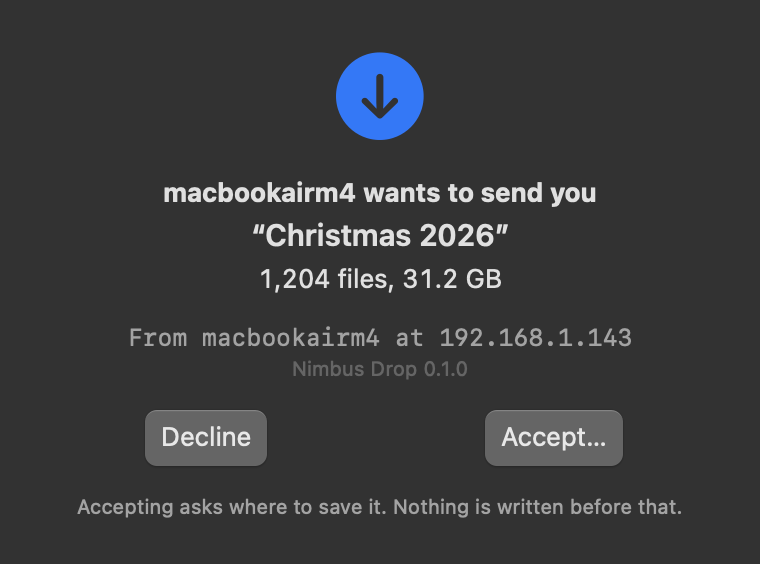
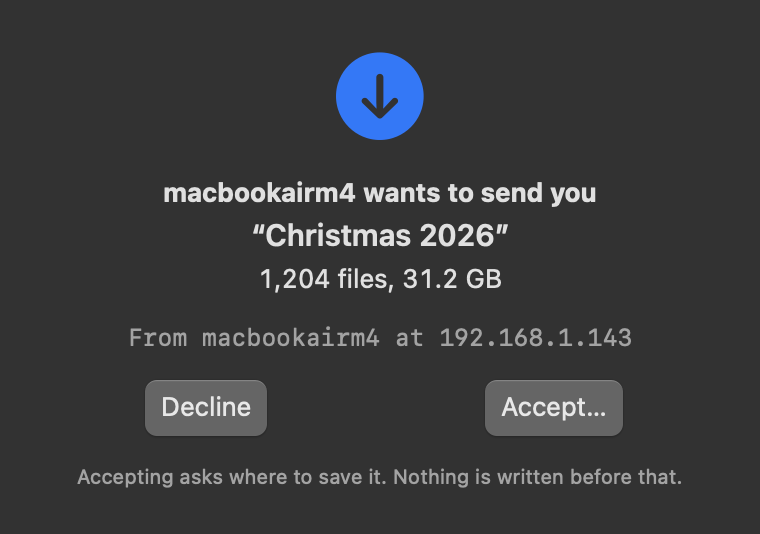
Each incoming drop asks on its own; a withdrawn offer no longer blocks the rest
- Offers are no longer queued behind one question: each drop has its own Accept
  panel (cascaded) and its own folder chooser, answered in any order.
- A sender giving up while its panel was open left the app believing a
  question was still open, and no later offer was shown. Found by the owner.
- The Accept panel no longer shows the sender's app version.
- ChaosProxy: a blackhole holds back the end of a stream as well as its bytes;
  two chaos tests no longer depend on the machine's speed (they failed on CI).

diff --git a/Sources/NimbusDrop/AppModel.swift b/Sources/NimbusDrop/AppModel.swift
@@ -65,10 +65,9 @@ final class AppModel: ObservableObject {
     private var announced = Set<UUID>()
     private var timer: Timer?
     private var activity: NSObjectProtocol?
-    private var prompts: [ReceiveSession] = []
-    private var panel: NSOpenPanel?
-    private var question: OfferPanel?
-    private var panelSession: ReceiveSession?
+    private struct Asking { var question: OfferPanel?; var chooser: NSOpenPanel? }
+    /// The questions open right now, by drop.
+    private var asking: [UUID: Asking] = [:]
     private let live: Bool
 
     init() {
@@ -300,66 +299,49 @@ final class AppModel: ObservableObject {
 
     // MARK: Receiving
 
+    /// Each incoming drop asks its own two questions, independently of any other: "do you want
+    /// this?" in a small panel that says who is sending, what, how many files and how big;
+    /// then, only after Accept, "where do you want to save it?" in a folder chooser. Declining
+    /// either declines that drop. A second drop that arrives while the first is still being
+    /// decided gets its own panel beside it, and they can be answered in any order.
     private func offered(_ session: ReceiveSession) {
         add(session)
-        session.onWithdrawn = { [weak self, weak session] in
-            DispatchQueue.main.async {
-                MainActor.assumeIsolated {
-                    guard let self, let session else { return }
-                    self.prompts.removeAll { $0 === session }
-                    if self.panelSession === session {
-                        self.question?.dismiss()
-                        self.panel?.cancel(nil)
-                    }
-                }
-            }
+        let id = session.id
+        session.onWithdrawn = { [weak self] in
+            DispatchQueue.main.async { MainActor.assumeIsolated { self?.withdraw(id) } }
         }
-        prompts.append(session)
-        askNext()
-    }
-
-    /// Two questions, one at a time: "do you want this?" in a small panel that says who is
-    /// sending, what, how many files and how big; then, only after Accept, "where do you want
-    /// to save it?" in a folder chooser. Declining either declines the drop. Further offers
-    /// wait their turn.
-    private func askNext() {
-        guard question == nil, panel == nil else { return }
-        prompts.removeAll { $0.state != .waitingForAccept }
-        guard let session = prompts.first else { return }
-        prompts.removeFirst()
-        panelSession = session
-
         let q = OfferPanel(session: session) { [weak self] accepted in
             MainActor.assumeIsolated {
                 guard let self else { return }
-                self.question = nil
+                self.asking[id]?.question = nil
                 if accepted, session.state == .waitingForAccept {
                     self.askWhere(session)
                 } else {
                     session.decline("\(self.identity.name) declined")
-                    self.panelSession = nil
-                    self.askNext()
+                    self.asking[id] = nil
                 }
             }
         }
-        question = q
+        let place = asking.count
+        asking[id] = Asking(question: q, chooser: nil)
         NSApp.activate(ignoringOtherApps: true)
         NSSound(named: "Glass")?.play()
-        q.show()
+        q.show(cascade: place)
     }
 
     private func askWhere(_ session: ReceiveSession) {
+        let id = session.id
         let p = NSOpenPanel()
-        p.title = "Save Incoming Drop"
+        p.title = "Save “\(session.title)” from \(session.peerName)"
         p.canChooseFiles = false
         p.canChooseDirectories = true
         p.canCreateDirectories = true
         p.allowsMultipleSelection = false
         p.directoryURL = FileManager.default.urls(for: .downloadsDirectory, in: .userDomainMask).first
-        p.message = "Where do you want to save “\(session.title)” from \(session.peerName)?"
+        p.message = "Where do you want to save “\(session.title)” (\(Format.files(session.offeredFiles)), \(Format.bytes(session.offeredBytes))) from \(session.peerName)?"
         p.prompt = "Save Here"
         p.level = .modalPanel
-        panel = p
+        asking[id] = Asking(question: nil, chooser: p)
         NSApp.activate(ignoringOtherApps: true)
         p.begin { [weak self] response in
             MainActor.assumeIsolated {
@@ -369,13 +351,23 @@ final class AppModel: ObservableObject {
                 } else {
                     session.decline("\(self.identity.name) declined")
                 }
-                self.panel = nil
-                self.panelSession = nil
-                self.askNext()
+                self.asking[id] = nil
             }
         }
         p.makeKeyAndOrderFront(nil)
     }
+
+    /// The sender gave up while its question was open: take the question away. (An earlier
+    /// version dismissed the panel but went on believing a question was open, and every later
+    /// offer waited behind it: 2026-11-22.)
+    private func withdraw(_ id: UUID) {
+        guard let open = asking.removeValue(forKey: id) else { return }
+        open.question?.dismiss()
+        open.chooser?.cancel(nil)
+    }
+
+    /// Questions on screen right now, for `--print`-style checks and the tests of the future.
+    var openQuestions: Int { asking.count }
 
     // MARK: The list
 

diff --git a/Sources/NimbusDrop/OfferPanel.swift b/Sources/NimbusDrop/OfferPanel.swift
@@ -18,7 +18,6 @@ final class OfferPanel: NSObject, NSWindowDelegate {
         super.init()
         let view = OfferView(sender: session.peerName, address: session.peerAddress, title: session.title,
                              detail: "\(Format.files(session.offeredFiles)), \(Format.bytes(session.offeredBytes))",
-                             version: "Nimbus Drop \(session.senderAppVersion)",
                              decline: { [weak self] in self?.finish(false) },
                              accept: { [weak self] in self?.finish(true) })
         panel.contentViewController = NSHostingController(rootView: view)
@@ -29,8 +28,11 @@ final class OfferPanel: NSObject, NSWindowDelegate {
         panel.delegate = self
     }
 
-    func show() {
+    /// Shows the panel; `cascade` steps it down and right so several offers do not hide each other.
+    func show(cascade: Int = 0) {
         panel.center()
+        let step = CGFloat(cascade % 8) * 28
+        panel.setFrameOrigin(NSPoint(x: panel.frame.origin.x + step, y: panel.frame.origin.y - step))
         panel.makeKeyAndOrderFront(nil)
     }
 
@@ -58,7 +60,7 @@ final class OfferPanel: NSObject, NSWindowDelegate {
     static func dump(to path: String) -> Bool {
         _ = NSApplication.shared
         let view = OfferView(sender: "macbookairm4", address: "192.168.1.143", title: "Christmas 2026",
-                             detail: "1,204 files, 31.2 GB", version: "Nimbus Drop 0.1.0", decline: {}, accept: {})
+                             detail: "1,204 files, 31.2 GB", decline: {}, accept: {})
         let host = NSHostingView(rootView: view.background(Color(nsColor: .windowBackgroundColor)))
         let window = NSWindow(contentRect: NSRect(origin: .zero, size: host.fittingSize), styleMask: [.titled], backing: .buffered, defer: false)
         window.appearance = NSAppearance(named: .darkAqua)
@@ -78,7 +80,6 @@ private struct OfferView: View {
     let address: String
     let title: String
     let detail: String
-    let version: String
     let decline: () -> Void
     let accept: () -> Void
 
@@ -90,11 +91,8 @@ private struct OfferView: View {
                 Text("“\(title)”").font(.title3.weight(.semibold)).multilineTextAlignment(.center).lineLimit(3)
                 Text(detail).font(.body.monospacedDigit())
             }
-            VStack(spacing: 2) {
-                Text("From \(sender) at \(address)").font(.system(.callout, design: .monospaced)).textSelection(.enabled)
-                Text(version).font(.caption).foregroundStyle(.tertiary)
-            }
-            .foregroundStyle(.secondary)
+            Text("From \(sender) at \(address)").font(.system(.callout, design: .monospaced))
+                .textSelection(.enabled).foregroundStyle(.secondary)
             HStack(spacing: 12) {
                 Button("Decline", action: decline).keyboardShortcut(.cancelAction).frame(maxWidth: .infinity)
                 Button("Accept…", action: accept).keyboardShortcut(.defaultAction).frame(maxWidth: .infinity)

diff --git a/Tests/NimbusDropChaosTests/ChaosTests.swift b/Tests/NimbusDropChaosTests/ChaosTests.swift
@@ -153,6 +153,8 @@ final class ChaosTests: XCTestCase {
     // MARK: Bandwidth
 
     func testANarrowLinkIsSlowNotBroken() throws {
+        // With a generous limit on standing still, slow must not be mistaken for stalled.
+        Tuning.stallSeconds = 15
         let src = try makeTree(megabytes: 4)
         proxy.set { $0.bytesPerSecond = 2 << 20 }
         let s = send(src)
@@ -164,6 +166,7 @@ final class ChaosTests: XCTestCase {
     }
 
     func testBandwidthFallingOffACliffMidDrop() throws {
+        Tuning.stallSeconds = 15
         let src = try makeTree(megabytes: 8)
         // Unlimited, then at 3 MB the link collapses to 1 % of a gigabit-ish pace, then recovers.
         proxy.whenForwarded(bytes: 3 << 20) { $0.set { $0.bytesPerSecond = 600 << 10 } }
@@ -322,13 +325,16 @@ final class ChaosTests: XCTestCase {
         proxy.set { $0.bytesPerSecond = 6 << 20 }
         proxy.whenForwarded(bytes: 2 << 20) { $0.set { $0.blackhole = true } }
         let s = send(src)
-        // Nothing is ever closed: only the engine's own watch can end this. The sender allows
-        // ten stall periods of silence once it has said "done", so about fifteen seconds here.
-        let took = wait(s, timeout: 40)
+        // Nothing is ever closed, and nothing gets across to say so: only each side's own watch
+        // can end this. Three stall periods of silence while bytes should be moving, ten once
+        // the sender has said "done" and is waiting to hear back.
+        let took = wait(s, timeout: 60)
         guard case .failed(let why) = s.state else { return XCTFail("expected the drop to be given up, got \(s.state)") }
         XCTAssertTrue(why.contains("stopped responding"), why)
-        XCTAssertLessThan(took, 30)
-        guard case .failed = try receiverSide().state else { return XCTFail("the receiver is still waiting") }
+        XCTAssertLessThan(took, 45)
+        let r = try receiverSide()
+        guard case .failed(let theirs) = r.state else { return XCTFail("the receiver is still waiting: \(r.state)") }
+        XCTAssertTrue(theirs.contains("stopped responding"), theirs)
         try assertNothingFinished()
         proxy.kill(.all)
         try assertResendFinishes(src)

diff --git a/Sources/NimbusDropChaos/ChaosProxy.swift b/Sources/NimbusDropChaos/ChaosProxy.swift
@@ -251,11 +251,12 @@ public final class ChaosProxy: @unchecked Sendable {
             let rate = lock.withLock { conditions.bytesPerSecond }
             let want = rate.map { max(256, min(capacity, $0 / 20)) } ?? capacity
             let n = read(from, buffer, want)
-            if n == 0 { clean = true; break }
-            if n < 0 { if errno == EINTR { continue }; break }
-
+            if n < 0, errno == EINTR { continue }
+            // A link that swallows everything swallows the news that a connection closed, too:
+            // neither bytes nor an end of stream get across until it lifts.
             while lock.withLock({ conditions.blackhole && !c.dead && !stopped }) { usleep(20_000) }
-            if lock.withLock({ c.dead }) { break }
+            if n == 0 { clean = true; break }
+            if n < 0 || lock.withLock({ c.dead }) { break }
             let wait = charge(n)
             if wait > 0 { Thread.sleep(forTimeInterval: wait) }
             if towardTarget { damage(c, buffer, n) }

diff --git a/CLAUDE.md b/CLAUDE.md
@@ -222,6 +222,11 @@ change with `set { }`; triggers are `whenForwarded(bytes:)` (repeatable) and `af
 - The tests set `Tuning` in `setUp` (a 60 s stall becomes 1.5 s) and put it back in `tearDown`.
   A test that needs a cut to land mid-drop has to send more than the kernel will buffer: with
   8 MB everything is in flight before the first trigger fires.
+- `blackhole` holds back the end of a stream as well as its bytes. It did not at first, and on a
+  slower machine (CI) the receiver's give-up reached the sender as "The connection closed"
+  through a link that was meant to carry nothing.
+- A test that asserts no connection was closed for stalling must give connections room
+  (`Tuning.stallSeconds = 15`): under a low cap the bucket can starve one of four for seconds.
 - `nimbus-chaos --to HOST:PORT --listen P [setting…] [--at WHEN setting…]…` is the same proxy
   for two real Macs; `--at` takes seconds (`5s`) or bytes carried (`400MB`).
 
@@ -240,6 +245,13 @@ change with `set { }`; triggers are `whenForwarded(bytes:)` (repeatable) and `af
   dropped everyone, for good. `PeerTable` now remembers who was behind each result, and a result
   without its record triggers a fresh browse (`restartSoon`), which also re-resolves addresses.
   `--watch-peers` prints everything Bonjour reports, for the next surprise of this kind.
+- **Each offer owns its questions** (`AppModel.asking`, by drop id): its Accept panel, then its
+  folder chooser, independent of any other drop. A sender giving up removes exactly its own. The
+  first version queued offers behind one shared "a question is open" flag, and a withdrawn offer
+  left the flag set: no later offer was ever shown (found by the owner, 2026-11-22).
+- **Checking prompts on the owner's screen competes with the owner.** Counting "Incoming Drop"
+  windows while they are at the keyboard gives nonsense (they click Accept). Say so before
+  sending test offers to a Mac someone is using, and prefer the Air.
 - **A status item with no menu** takes its click through `button.target`/`action`; a click when
   the window is already key closes it, so the icon toggles.
 - **A peer's port changes when its copy restarts** (the preferred port is taken while the old

diff --git a/README.md b/README.md
@@ -40,7 +40,8 @@ while a drop moves. The app has a Dock icon and its own menu only while the wind
 other Macs running Nimbus Drop can offer it files. Nothing is written until you say so. An offer raises a small
 panel that says who is sending (host name and IP address), what, how many files and how big,
 with *Decline* and *Accept*. Accept, and a folder chooser asks where to save it, starting in
-`~/Downloads`; cancelling that declines too. Turn
+`~/Downloads`; cancelling that declines too. Several drops arriving at once each get their
+own panel and can be answered in any order. Turn
 receiving off and this Mac disappears from everyone's list.
 
 **Sending.** Under *Destinations on this LAN* every Mac found is a tile showing its host name
